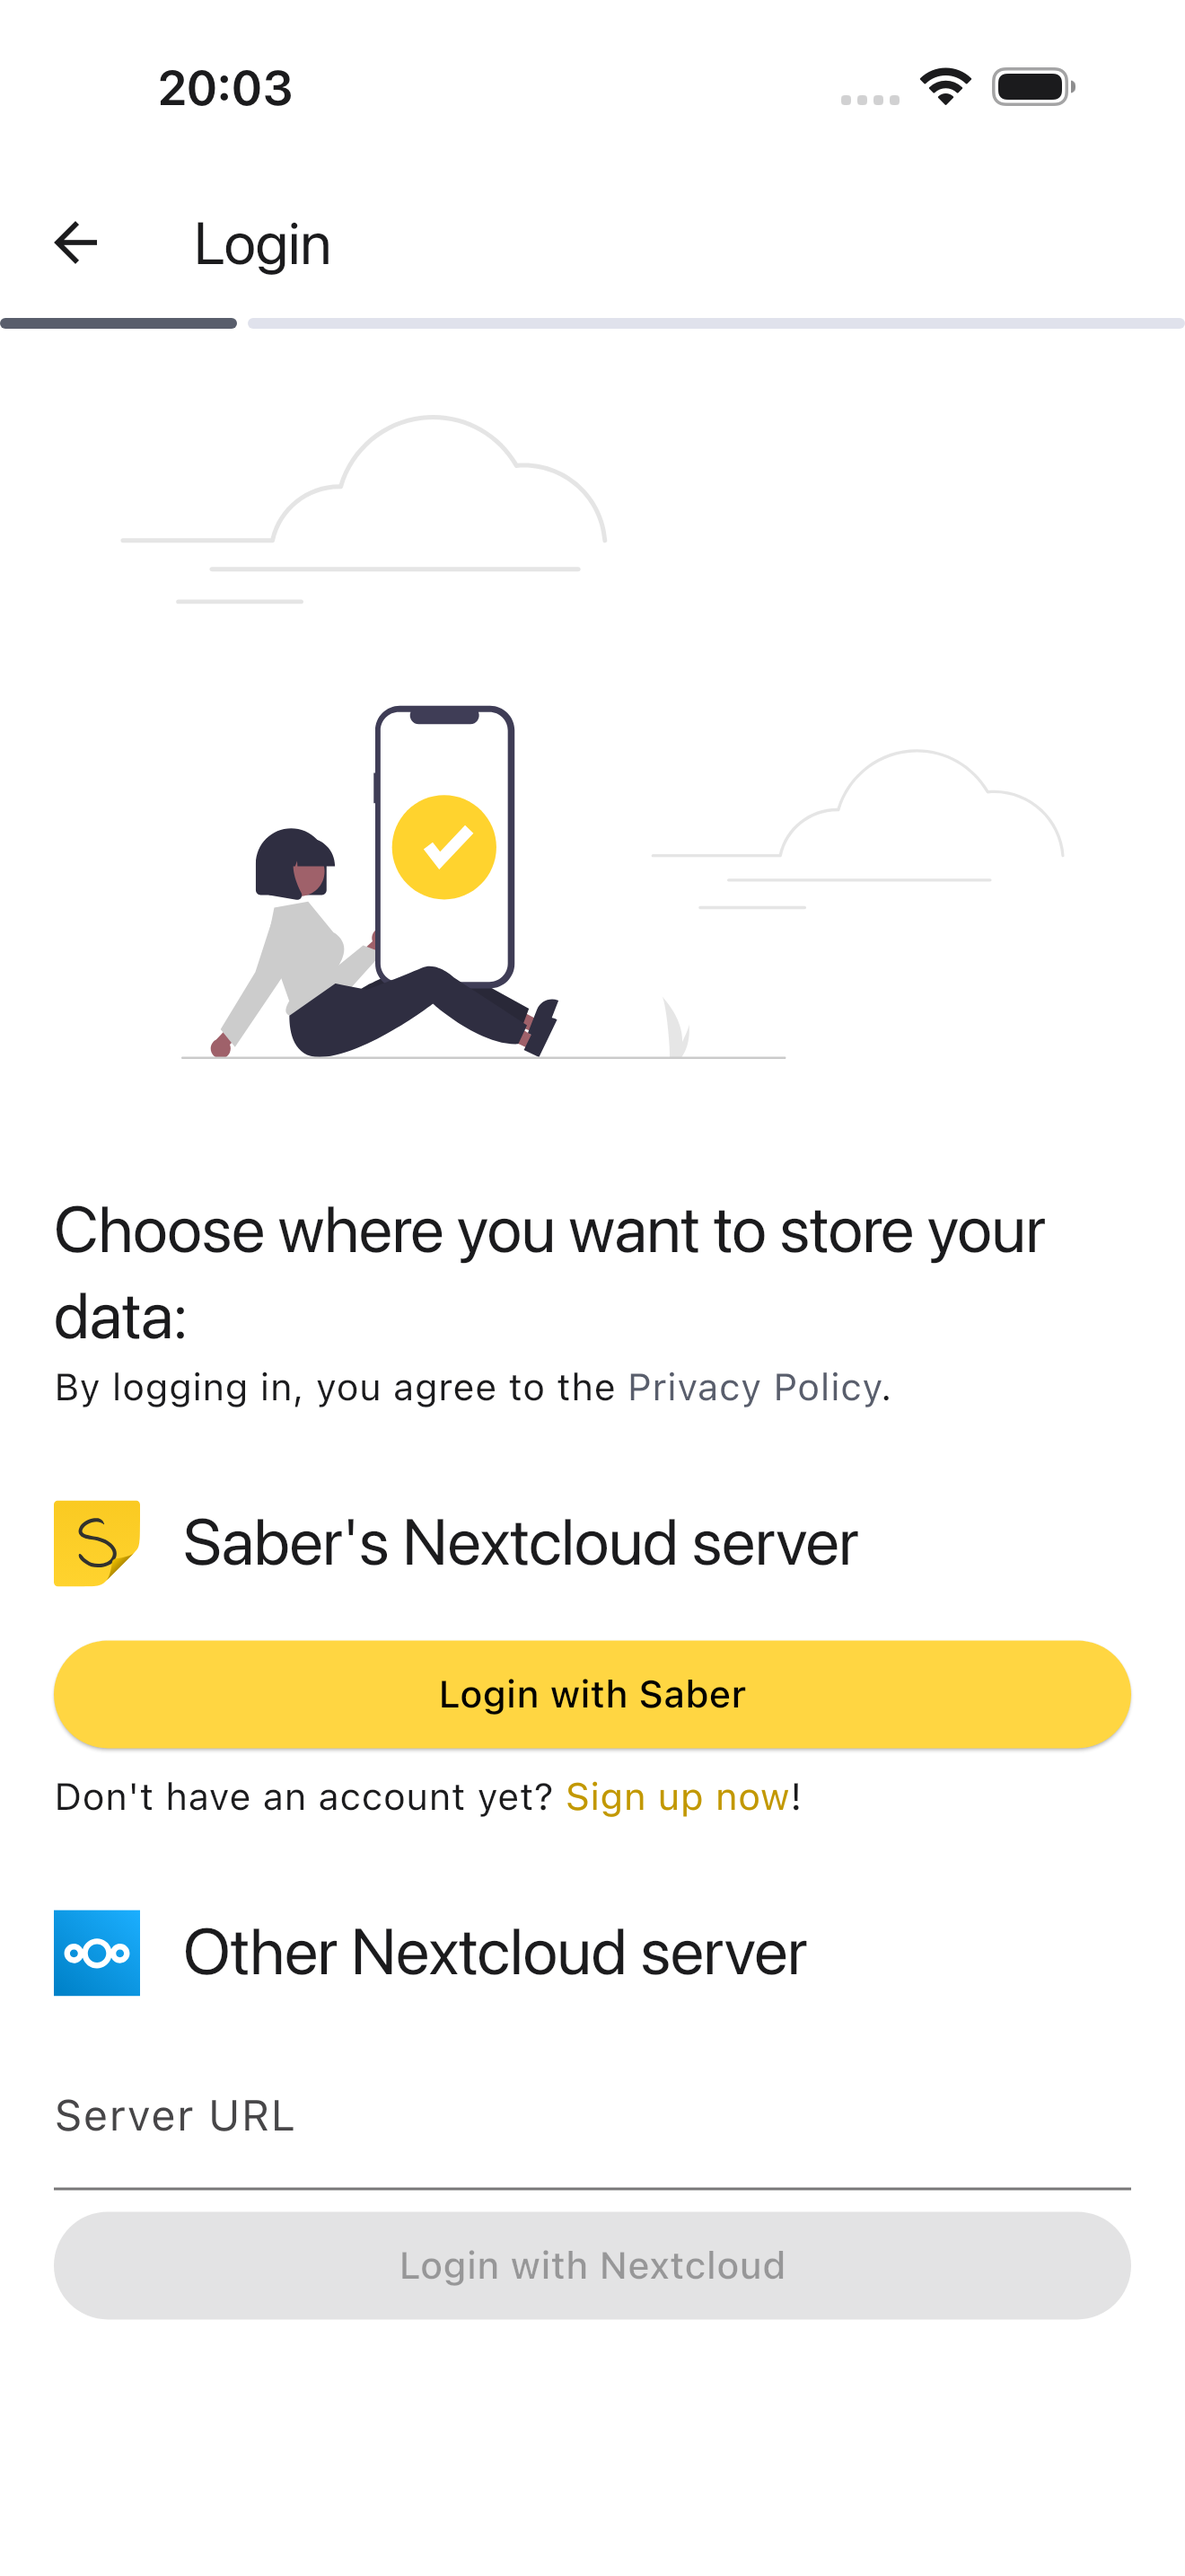
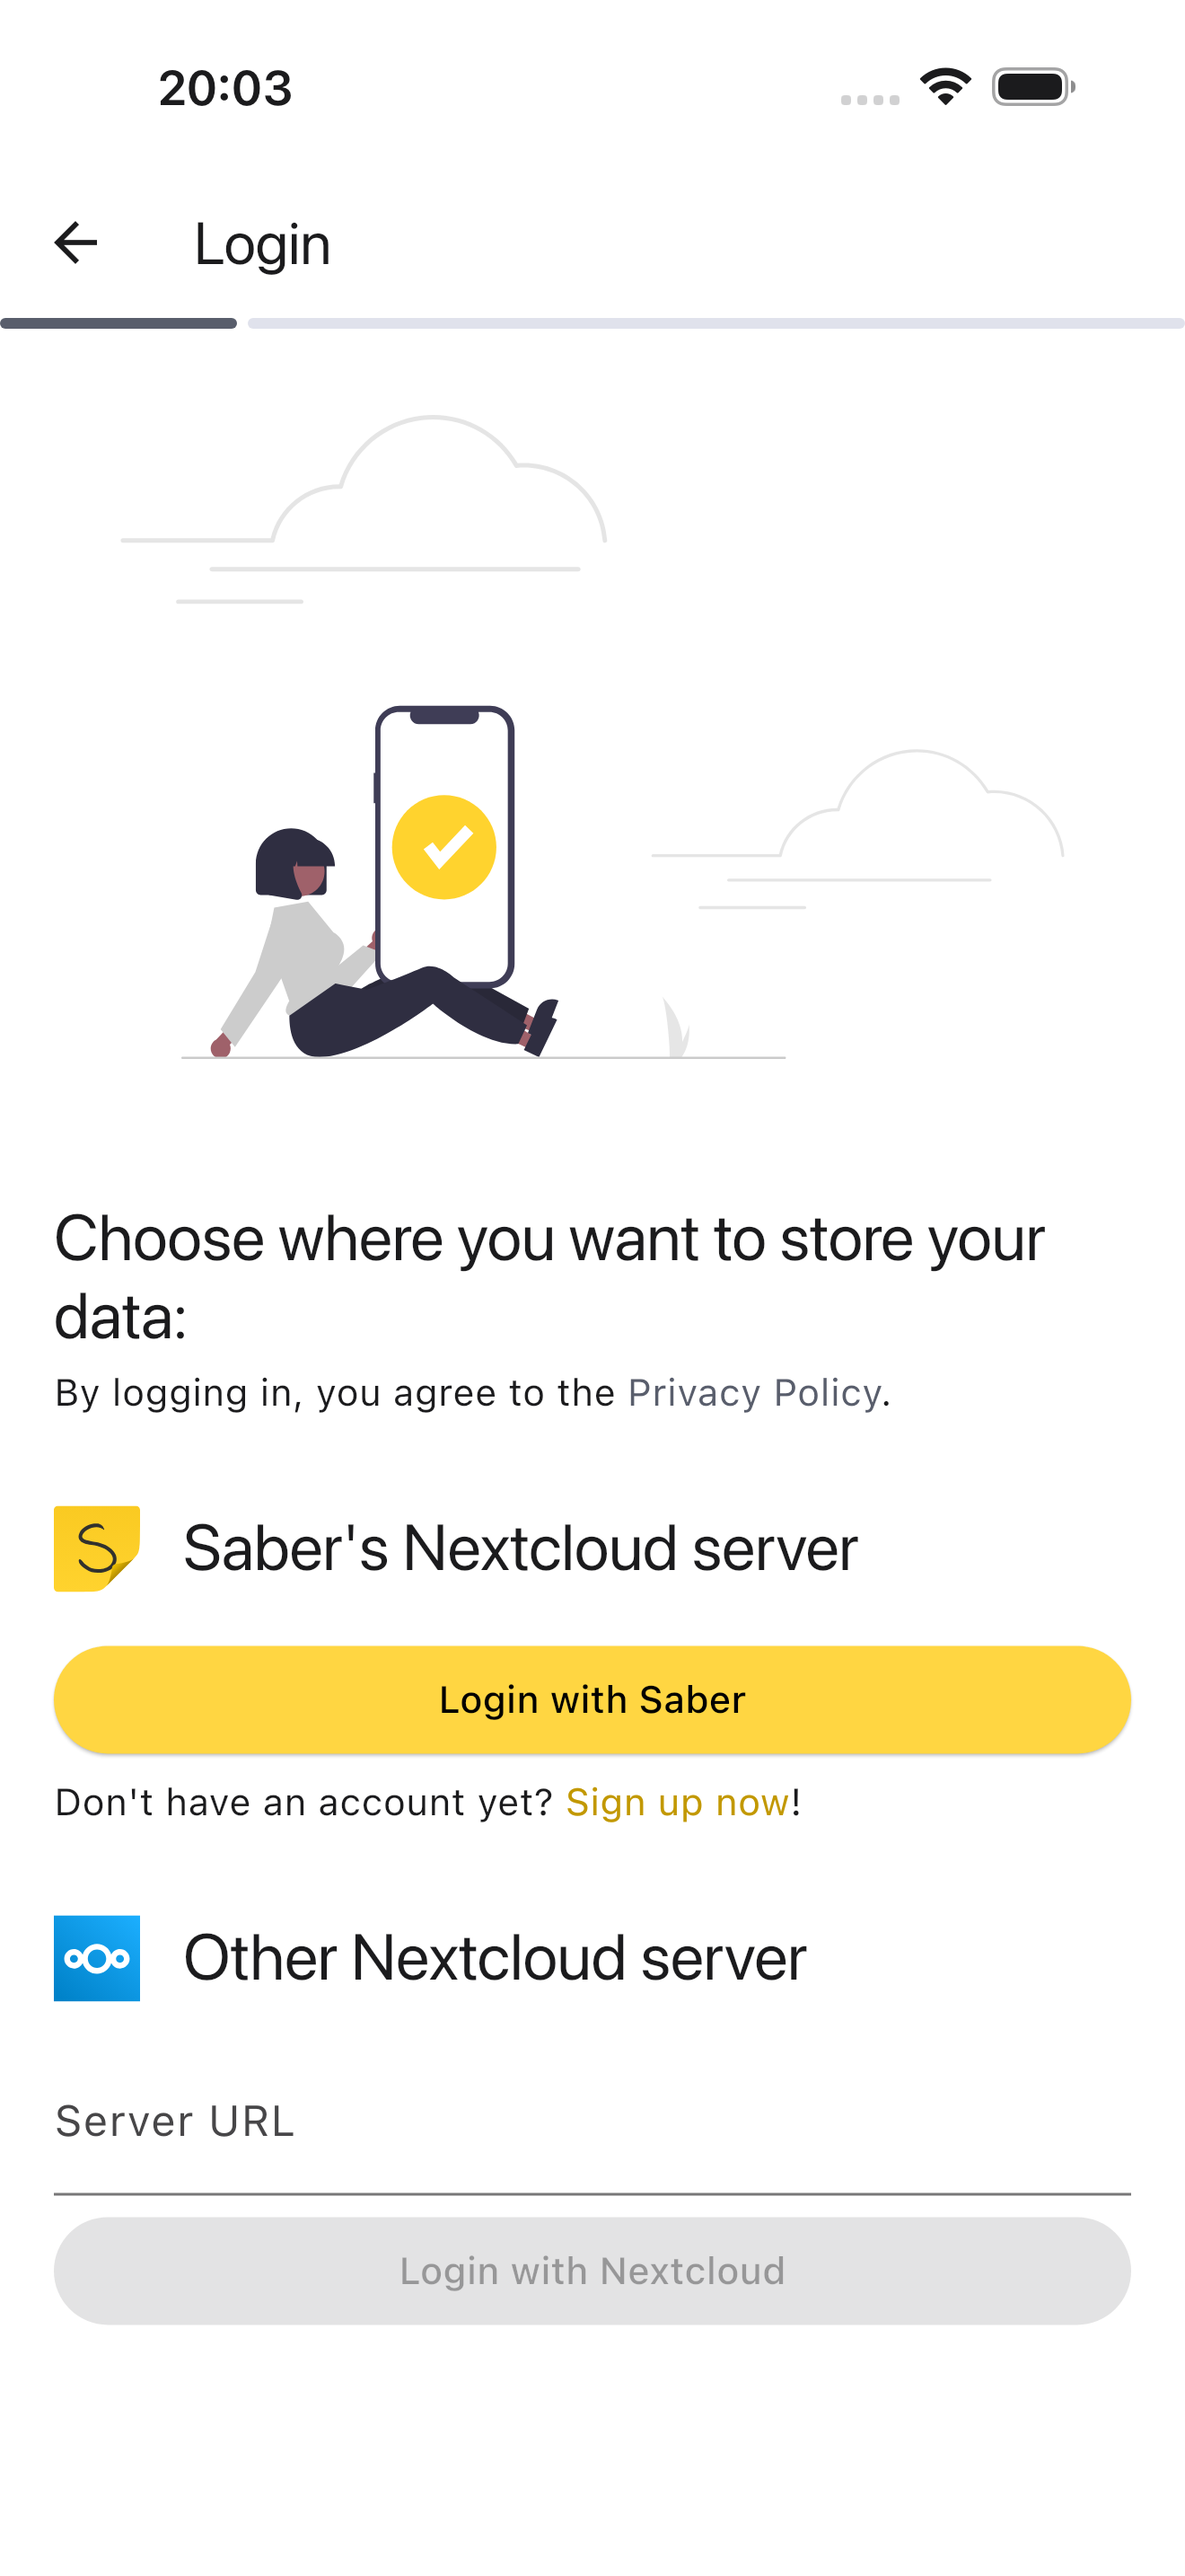
tweak: adjust spacing on login page

diff --git a/lib/components/nextcloud/nc_login_step.dart b/lib/components/nextcloud/nc_login_step.dart
@@ -153,12 +153,13 @@ class const _Header({required final bool shouldUseTwoColumns})
     return Column(
       mainAxisSize: .min,
       crossAxisAlignment: .stretch,
+      spacing: 4,
       children: [
         if (!shouldUseTwoColumns)
           _HeaderImage(shouldUseTwoColumns: shouldUseTwoColumns),
         Text(
           t.login.ncLoginStep.whereToStoreData,
-          style: theme.textTheme.headlineSmall,
+          style: theme.textTheme.headlineSmall?.copyWith(height: 1.2),
         ),
         Text.rich(
           t.login.form.agreeToPrivacyPolicy(
